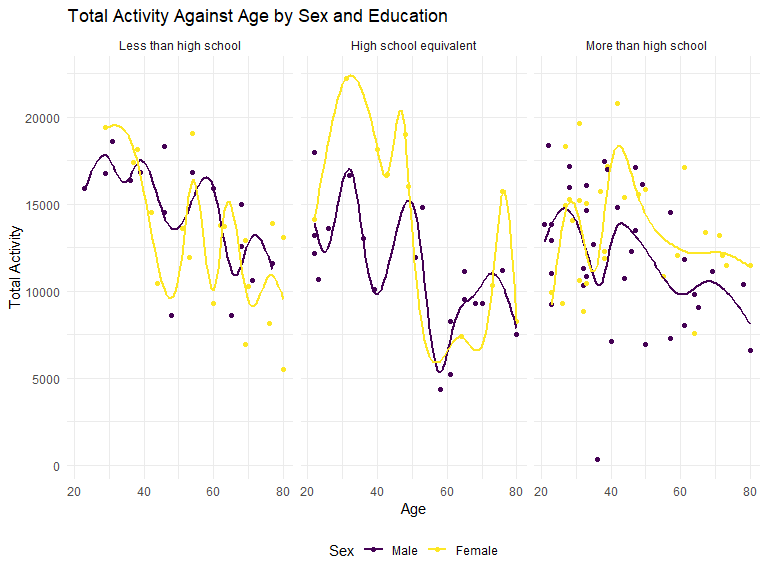
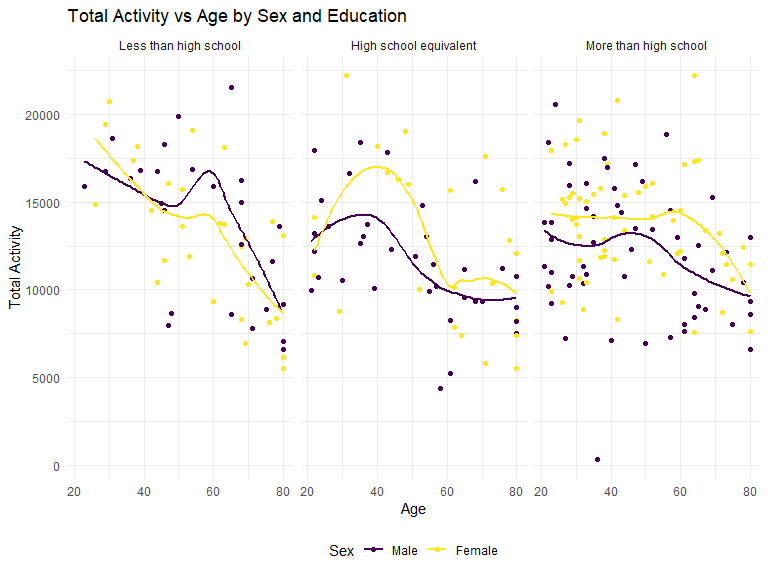
second try

diff --git a/p8105_hw3_yg3040.md b/p8105_hw3_yg3040.md
@@ -120,7 +120,7 @@ hex + ridge
 
 ### Problem 2
 
-#### Load, tidy, merge, and otherwise organize the data sets.
+#### Load, tidy, merge, and otherwise organize the data sets. Your final dataset should include all originally observed variables; exclude participants less than 21 years of age, and those with missing demographic data; and encode data with reasonable variable classes (i.e. not numeric, and using factors with the ordering of tables and plots in mind).
 
 ``` r
 covar_df = 
@@ -130,8 +130,8 @@ covar_df =
     na = c(".", "NA", "")) |> 
   janitor::clean_names() |> 
   mutate(
-    sex = factor(sex, labels = c("Male", "Female")),
-    education = factor(education, labels = c("Less than high school", "High school equivalent", "More than high school"))
+    sex = factor(sex, levels = c("1", "2"), labels = c("Male", "Female")),
+    education = factor(education, levels = c("1", "2", "3"), labels = c("Less than high school", "High school equivalent", "More than high school"), ordered = TRUE)
   )
 ```
 
@@ -153,7 +153,8 @@ accel_df =
     starts_with("min"),
     names_to = "minute",
     names_prefix = "min",
-    values_to = "mims")
+    values_to = "mims") |> 
+  mutate(minute = as.numeric(minute))
 ```
 
     ## Rows: 250 Columns: 1441
@@ -194,67 +195,99 @@ covar_df |>
 ```
 
 <img src="p8105_hw3_yg3040_files/figure-gfm/unnamed-chunk-6-1.png" width="90%" />
+
 *The number of men and women in “Less than high school” and “More than
 high school”categories are alike. The number of men in “High school
 equivalent” category is 50% larger than the number of women in “High
 school equivalent” category.*
 
-*The age distribution plot, divided by education levels and sex, reveals
-distinct patterns. In the “Less than high school” group, men are more
-prevalent in younger to middle adulthood (30–50 years), while women have
-a slightly higher density in older age ranges (60+ years). The “High
-school equivalent” group shows a more balanced distribution across ages,
-but women outnumber men in the 70+ range. In the “More than high school”
-group, the density of older women (around 70 years) is notably higher,
-while men peak in middle adulthood (around 50 years), indicating that
-women in this group tend to be older.*
+*The age distributions for men and women with “Less than high school”
+education are quite similar, although women’s distribution appears
+slightly more balanced, with smoother peaks across different age ranges.
+In contrast, the “High school equivalent” category shows a mirrored
+pattern between men and women. For instance, where the male density is
+lower, the female density tends to be higher, particularly in certain
+age bands. For individuals with “More than high school” education, the
+distribution is more skewed towards younger and middle-aged women, with
+a prominent peak around the age of 25–30. Meanwhile, the male
+distribution in this category is broader, with fewer drastic peaks,
+suggesting a more even spread across age groups.*
 
 #### Using your tidied dataset, aggregate across minutes to create a total activity variable for each participant. Plot these total activities (y-axis) against age (x-axis); your plot should compare men to women and have separate panels for each education level. Include a trend line or a smooth to illustrate differences. Comment on your plot.
 
 ``` r
 final_df |> 
   group_by(seqn) |> 
-  mutate(total_activity = sum(mims)) |> 
-  drop_na(sex, age, education) |> 
+  mutate(total_activity = sum(mims, na.rm = TRUE)) |> 
   ggplot(aes(x = age, y = total_activity, color = sex)) +
     geom_point() +
-    geom_smooth(se = FALSE) +
+    geom_smooth(method = "loess", se = FALSE) +
     facet_grid(. ~ education) +
     labs(
-      title = "Total Activity Against Age by Sex and Education",
+      title = "Total Activity vs Age by Sex and Education",
       x = "Age",
       y = "Total Activity",
       color = "Sex"
     )
 ```
 
-    ## `geom_smooth()` using method = 'gam' and formula = 'y ~ s(x, bs = "cs")'
+    ## `geom_smooth()` using formula = 'y ~ x'
 
 <img src="p8105_hw3_yg3040_files/figure-gfm/unnamed-chunk-7-1.png" width="90%" />
-\_
 
-Make a three-panel plot that shows the 24-hour activity time courses for
-each education level and use color to indicate sex. Describe in words
-any patterns or conclusions you can make based on this graph; including
-smooth trends may help identify differences.
+*Across all education levels, women tend to exhibit higher total
+activity levels compared to men, particularly in younger and middle
+adulthood. For both sexes, total activity generally declines with age,
+although the patterns vary by education level. In the “Less than high
+school” group, both men and women show a steady decline with age. In the
+“High school equivalent” group, men experience a noticeable drop in
+total activity around their 50s, while women maintain higher levels of
+activity until older ages. In the “More than high school” group, men
+have more stable but lower activity levels, while women show greater
+fluctuations, with activity peaking in middle adulthood before tapering
+off in older age.*
+
+#### Make a three-panel plot that shows the 24-hour activity time courses for each education level and use color to indicate sex. Describe in words any patterns or conclusions you can make based on this graph; including smooth trends may help identify differences.
 
 ``` r
 final_df |> 
-  drop_na(sex, education) |> 
-  ggplot(aes(x = minute, y = mims, color = sex)) +
-    geom_smooth(se = FALSE) +
-    facet_grid(. ~ education) +
+  drop_na(mims) |> 
+  ggplot(aes(x = minute, y = mims, group = seqn, color = sex)) +
+    geom_line(alpha = 0.1, size = 0.3) +  # Individual lines for each person
+    geom_smooth(aes(group = sex), method = "loess", se = FALSE, size = 1) +  # Smooth trend on top
+    facet_grid(. ~ education, scales = "free_x") +  # Facet by education level
     labs(
-      title = "24-Hour Activity Time Courses by Sex and Education",
-      x = "Minute",
-      y = "MIMS",
+      title = "24-hour Activity Time Courses by Education and Sex",  
+      x = "Minute of the Day",  
+      y = "MIMS (Activity Level)",  
       color = "Sex"
+    ) +
+    scale_color_manual(values = c("Male" = "#377EB8", "Female" = "#E41A1C")) +  # Custom colors
+    theme_minimal() +
+    theme(
+      plot.title = element_text(hjust = 0.5, size = 16),  
+      strip.text = element_text(size = 12),  
+      axis.title.y = element_text(size = 14),  
+      legend.position = "right",  
+      legend.title = element_text(size = 12),  
+      legend.text = element_text(size = 11),  
+      panel.grid.major = element_blank(),  
+      panel.grid.minor = element_blank()
     )
 ```
 
-    ## `geom_smooth()` using method = 'loess' and formula = 'y ~ x'
+    ## `geom_smooth()` using formula = 'y ~ x'
 
 <img src="p8105_hw3_yg3040_files/figure-gfm/unnamed-chunk-8-1.png" width="90%" />
+
+*Across all education levels, we observe a similar pattern: a gradual
+rise in activity in the morning, peaking around midday, followed by a
+decline during the afternoon and evening. Participants with more than
+high school education show the most intense peaks, especially in the
+middle of the day. In contrast, those with less than high school
+education show lower-intensity activity across the day, with both sexes
+exhibiting similar trend. Notably, women tend to exhibit slightly higher
+peaks compared to men across all education levels.*
 
 ### Problem 3
 
@@ -341,15 +374,28 @@ july_2024_citi_df =
     ## ℹ Specify the column types or set `show_col_types = FALSE` to quiet this message.
 
 ``` r
-citi_df = bind_rows(jan_2020_citi_df, july_2020_citi_df, jan_2024_citi_df, july_2024_citi_df)
+citi_df = 
+  bind_rows(jan_2020_citi_df, july_2020_citi_df, jan_2024_citi_df, july_2024_citi_df) |> 
+  mutate(
+    rideable_type = factor(rideable_type, level = c("classic_bike", "electric_bike")),
+    weekdays = factor(weekdays, levels = c("Monday", "Tuesday", "Wednesday", "Thursday", "Friday", "Saturday", "Sunday")),
+    member_casual = factor(member_casual, levels = c("casual", "member")),
+    year = factor(year, levels = c("2020", "2024")),
+    month = factor(month, levels = c("Jan", "July"))
+    )
 ```
 
-\_
+*The `citi_df` dataset contains data on rides in Jan 2020, July 2020,
+Jan 2024, and July 2024. The dataset includes the following variables:
+bike type, day of the week, ride duration, starting station, ending
+station, and membership status of each ride.*
 
 #### Produce a reader-friendly table showing the total number of rides in each combination of year and month separating casual riders and Citi Bike members. Comment on these results.
 
 ``` r
-citi_df |> janitor::tabyl(member_casual, month, year)
+citi_df |> 
+  janitor::tabyl(member_casual, month, year) |> 
+  print()
 ```
 
     ## $`2020`
@@ -362,7 +408,11 @@ citi_df |> janitor::tabyl(member_casual, month, year)
     ##         casual  2108 10894
     ##         member 16753 36262
 
-\_
+*In both 2020 and 2024, July experiences significantly higher number of
+rides than January, particularly among casual riders. Comparing 2020 to
+2024, both casual and member rides increased, with casual rides more
+than doubling in both January and July, and member rides growing
+substantially particularly in July 2024.*
 
 #### Make a table showing the 5 most popular starting stations for July 2024; include the number of rides originating from these stations.
 
@@ -385,13 +435,30 @@ july_2024_citi_df |>
 #### Make a plot to investigate the effects of day of the week, month, and year on median ride duration. This plot can include one or more panels, but should facilitate comparison across all variables of interest. Comment on your observations from this plot.
 
 ``` r
-weekdays_median_duration_p = 
-  citi_df |> 
+citi_df |> 
   group_by(year, month, weekdays) |> 
-  mutate(median_duration = median(duration)) |> 
-  ggplot(aes(x = weekdays, y = median_duration)) +
-    geom_point()
+  mutate(median_duration = median(duration, na.rm = TRUE)) |> 
+  ggplot(aes(x = weekdays, y = median_duration, group = interaction(year, month), color = year, linetype = month)) +
+  geom_line(size = 1) +
+  labs(
+    title = "Median Ride Duration by Weekday",
+    x = "Weekday",
+    y = "Median Duration (Minutes)",
+    colour = "Year",
+    linetype = "Month"
+  ) +
+   theme_minimal()
 ```
+
+<img src="p8105_hw3_yg3040_files/figure-gfm/unnamed-chunk-12-1.png" width="90%" />
+
+*Rides in 2020 tend to have higher median durations compared to 2024,
+particularly in July. July generally shows higher ride durations than
+January, particularly on weekends (Saturday and Sunday). There is a
+noticeable increase in ride duration on weekends across both years, but
+more prominently in July 2020. January 2024 shows relatively consistent
+ride durations across all weekdays, with little difference between
+weekdays and weekends.*
 
 #### There were relatively few electric Citi Bikes in 2020, but many more are available now. For data in 2024, make a figure that shows the impact of month, membership status, and bike type on the distribution of ride duration. Comment on your results.
 
@@ -404,3 +471,11 @@ citi_df |>
 ```
 
 <img src="p8105_hw3_yg3040_files/figure-gfm/unnamed-chunk-13-1.png" width="90%" />
+
+*Across both months, casual riders tend to have more variability and
+longer ride durations compared to members. In contrast, members exhibit
+shorter, more consistent ride durations, reflecting a practical,
+commuting-oriented use. Electric bikes are used for relatively shorter
+rides compared to classic bikes. Seasonal differences are minimal, but
+July shows a slight increase in ride durations compared to January,
+likely due to better weather encouraging longer trips.*
